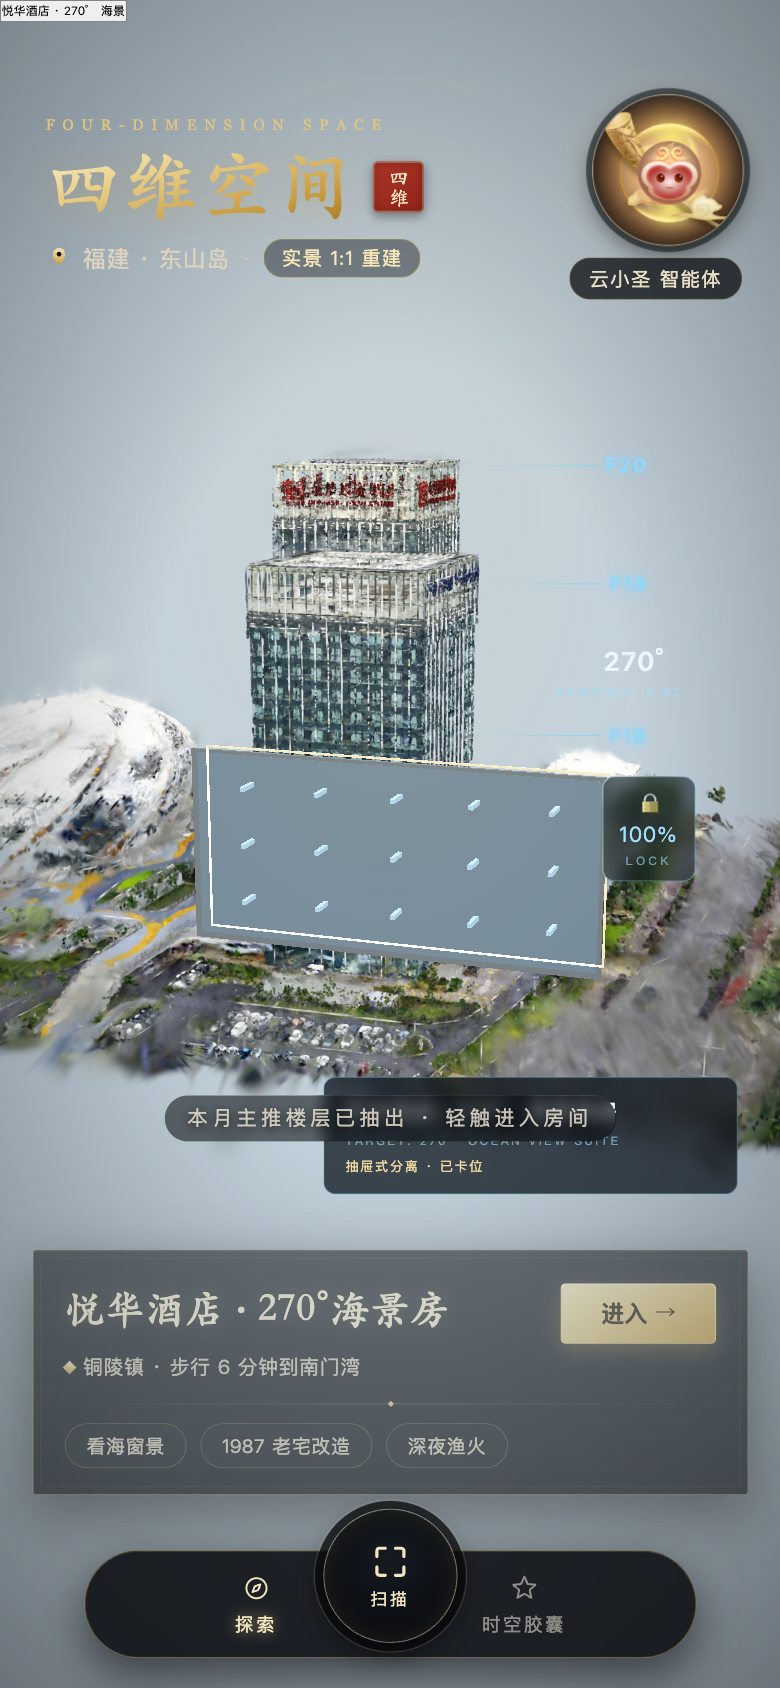
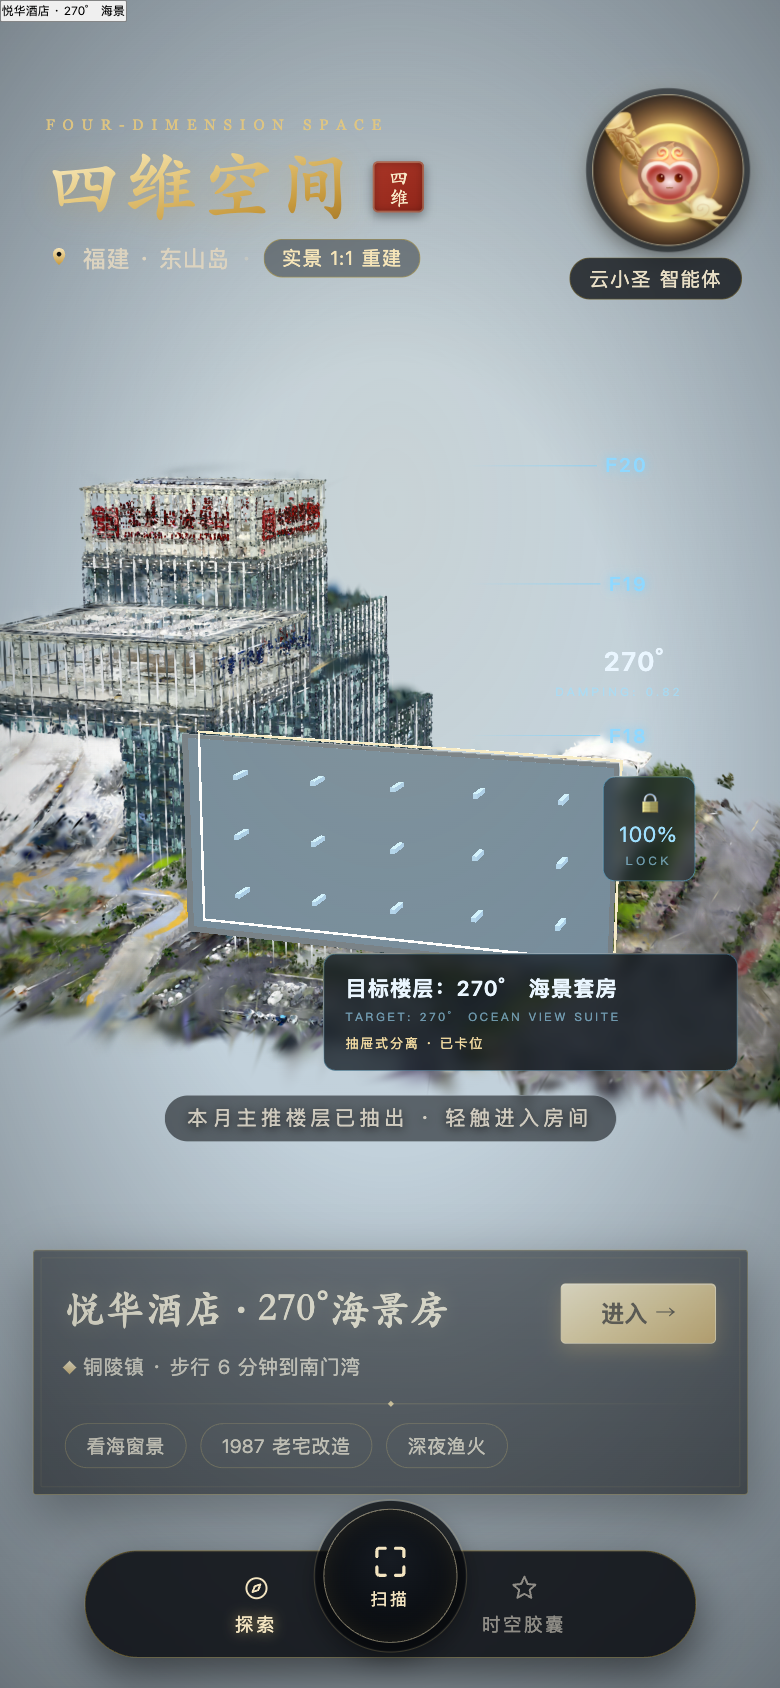
fix: 分层展开幅度调到 62m/层，标注卡避让底部卡片

Changed region(s): [[0.0, 0.2464, 1.0, 0.7085]]

diff --git a/src/engine/pc/PcEngine.ts b/src/engine/pc/PcEngine.ts
@@ -41,7 +41,7 @@ export class PcEngine {
   private unfoldTarget = 0;
   private unfoldSpeed = 1.6;
   /** 每层纵向拉开距离（米）——爆炸图的主方向 */
-  unfoldSpreadY = 26;
+  unfoldSpreadY = 62;
   /** 每层横向错位（米），让层次更清晰 */
   unfoldSpreadX = 5;
   /** 展开时被抽走的那层（索引） */

diff --git a/src/pc/boot.ts b/src/pc/boot.ts
@@ -116,7 +116,7 @@ export async function bootPc() {
     // ② 空间折叠：千层糕展开（1.1s 起，1.6s）
     window.setTimeout(() => {
       engine.controls.autoRotate = false;
-      engine.openUnfold(14, 1600, 3);
+      engine.openUnfold(62, 1700, 3);
       sfx.whoosh(0.8);
       engine.playTimeline(
         [

diff --git a/src/app.css b/src/app.css
@@ -1622,7 +1622,7 @@ body.godview .explode-hud { opacity: 1; }
 .ex-card {
     position: absolute;
     right: 48px;
-    bottom: 560px;
+    bottom: 700px;
     width: 470px;
     padding: 20px 24px;
     border-radius: 14px;
